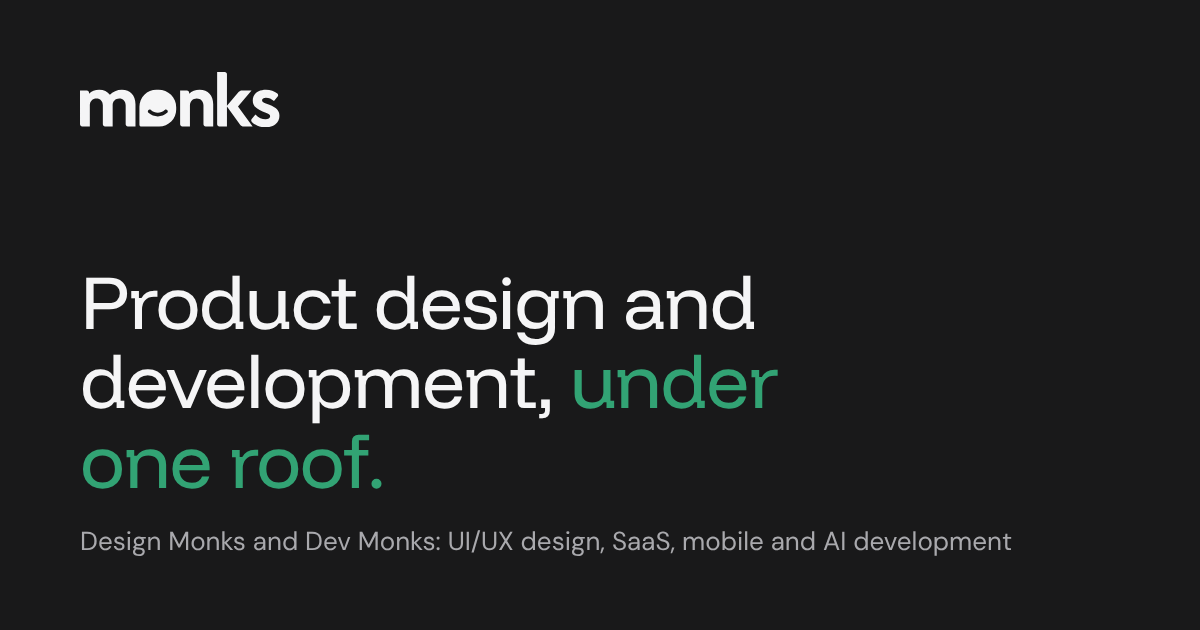
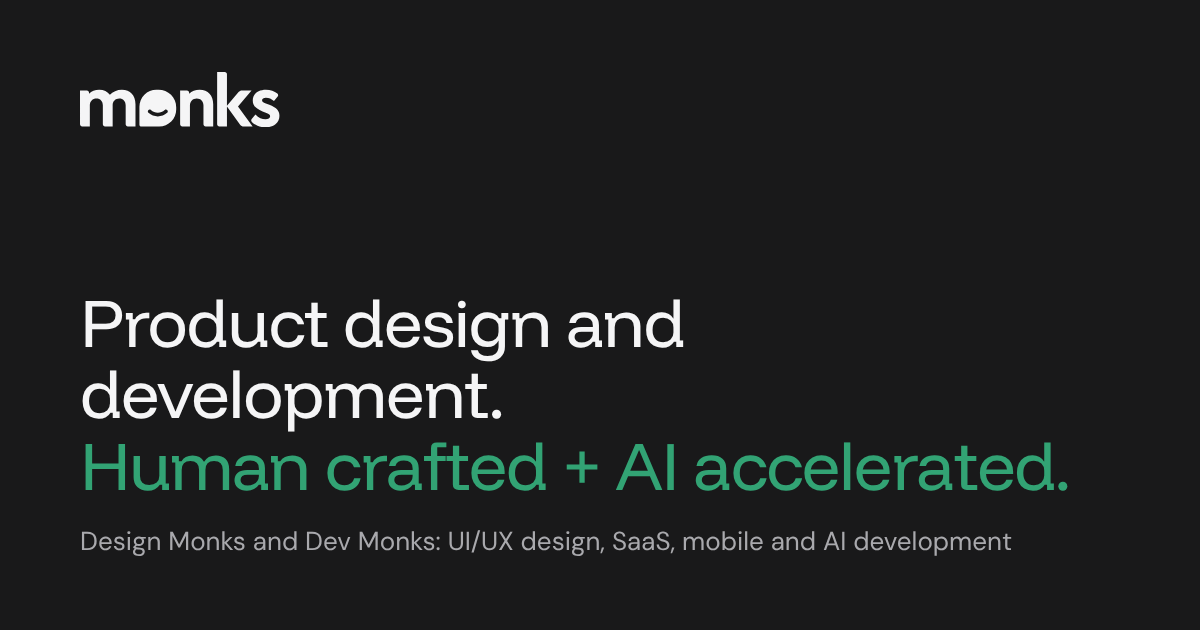
Hero: new headline and design + development chips
Claude-Session: https://claude.ai/code/session_01WqCKCg1rmMb1XfDekhV5zn

Changed region(s): [[0.0617, 0.4222, 0.8942, 0.7841]]

diff --git a/index.html b/index.html
@@ -16,7 +16,7 @@
 <meta property="og:image" content="https://www.monks.company/og-image.png">
 <meta property="og:image:width" content="1200">
 <meta property="og:image:height" content="630">
-<meta property="og:image:alt" content="Monks: product design and development, under one roof">
+<meta property="og:image:alt" content="Monks: product design and development. Human crafted + AI accelerated.">
 <meta name="twitter:card" content="summary_large_image">
 <meta name="twitter:title" content="Monks | Product Design &amp; Development Studio">
 <meta name="twitter:description" content="Design Monks and Dev Monks under one roof: UI/UX design, branding, SaaS, mobile app and AI development.">
@@ -83,6 +83,7 @@ button, input, textarea { font: inherit; color: inherit; letter-spacing: inherit
 .body { color: var(--ink-2) }
 .dark .body { color: var(--paper-2) }
 .hi { color: var(--accent) }
+.h1 .hi { display: block }
 .head { display: grid; gap: 20px; justify-items: center; text-align: center; margin-bottom: clamp(36px, 4vw, 56px) }
 .head .body { max-width: 56ch }
 
@@ -420,9 +421,9 @@ a.chip:hover { background: var(--graphite); color: var(--paper) }
     <div class="hero-grid">
       <div class="hero-l">
         <div class="chips" aria-label="What we do">
-          <a class="chip" href="#services">UI/UX design</a><a class="chip" href="#services">Branding</a><a class="chip" href="#services">SaaS</a><a class="chip" href="#services">Mobile apps</a><a class="chip" href="#services">AI</a>
+          <a class="chip" href="#services">UI/UX design</a><a class="chip" href="#services">Branding</a><a class="chip" href="#services">Web &amp; app development</a><a class="chip" href="#services">AI development</a>
         </div>
-        <h1 class="h1">Product design and development, <span class="hi">under one roof.</span></h1>
+        <h1 class="h1">Product design and development. <span class="hi">Human crafted + AI accelerated.</span></h1>
       </div>
       <div class="hero-r">
         <p class="body">Monks is a product design and development studio for startups and enterprise teams. UI/UX design, branding, SaaS, mobile app and AI development, delivered by one team.</p>
